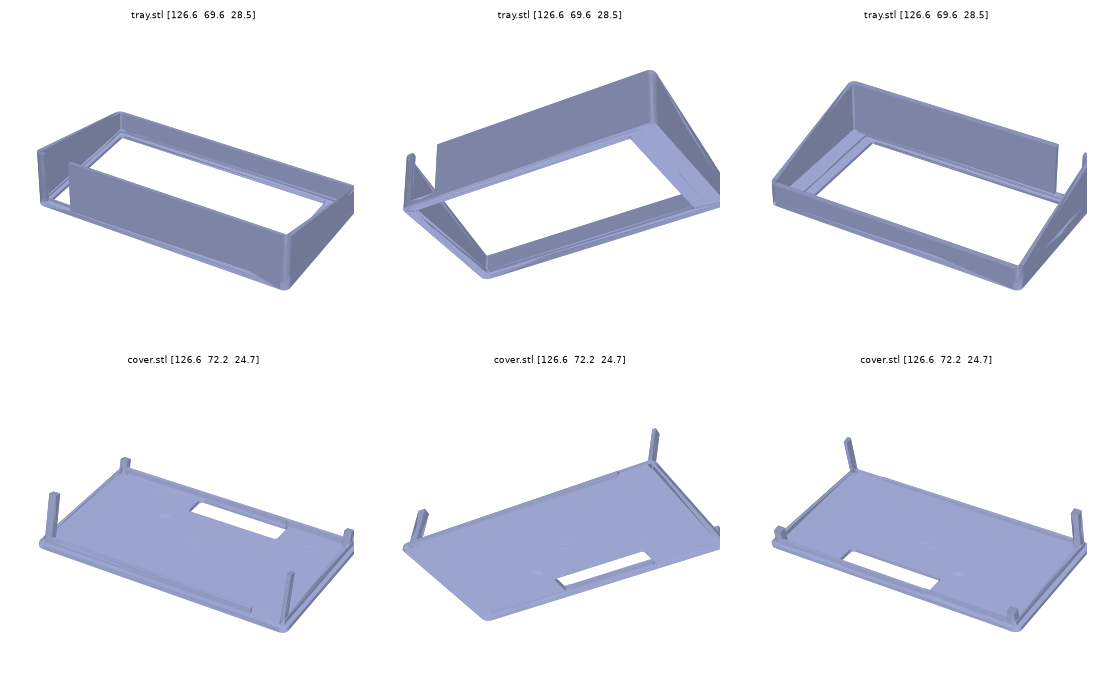
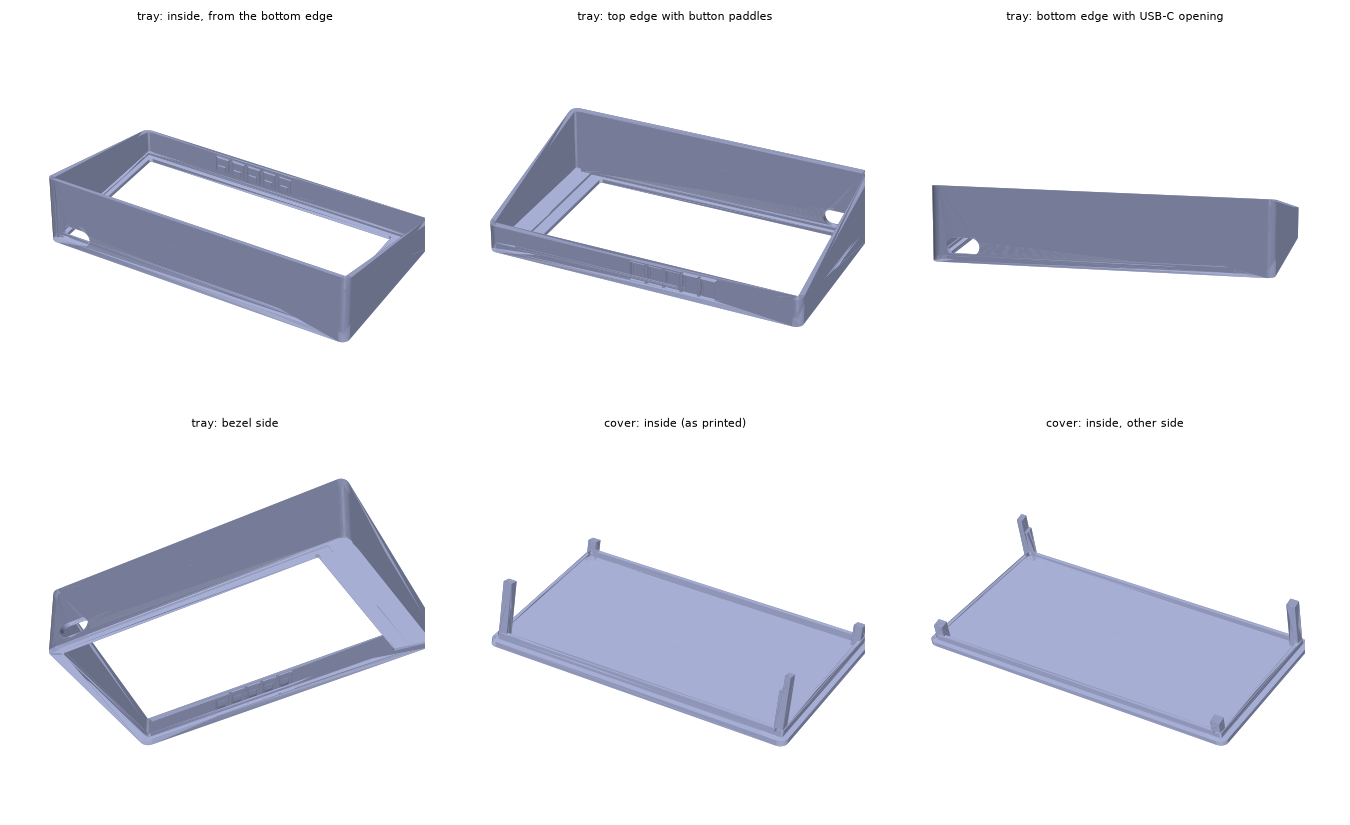
Rework case: edge button paddles and closed USB-C opening
Borrow details from 51m0 Lab's slab case for the same board
(makerworld.com/en/models/615564), keeping the wedge back that the
18650 needs:

- five flexing paddles in the top wall press the side-facing buttons,
  replacing the slot in the back cover
- closed rounded USB-C opening in the bottom wall instead of a notch
- USB and button positions rescaled from that model's cutting-mat photo

Still a draft: dimensions are estimates and nothing has been printed.

diff --git a/case/case.py b/case/case.py
@@ -9,6 +9,11 @@ Shape: a wedge. The board drops face-down into the tray (the bezel). The back is
 top edge, where the buttons are, and deep at the bottom edge, where the 18650 sits, so the
 case stands on its bottom edge and the cover is a flat plate that prints without supports.
 
+Details borrowed from 51m0 Lab's slab case for the same board (makerworld.com/en/models/615564,
+which only fits a flat LiPo): five flexing paddles in the top edge that press the side-facing
+buttons, a closed USB-C opening in the bottom edge, and a back that locates on corner posts.
+Positions along the edges were scaled from that model's photo of the board on a cutting mat.
+
 All coordinates are in millimetres, looking at the screen: x to the right, y up, origin at
 the bottom-left corner of the circuit board, z from the front of the bezel towards the back.
 
@@ -40,11 +45,17 @@ CELL_Y = 12.0          # measure: 18650 centre line, up from the board's bottom 
 CELL_H = 10.5          # measure: 18650 centre line, above the back of the board
 CELL_R = 9.3           # 18650 radius
 
-USB_X = 9.0            # measure: USB-C centre, from the board's left edge (screen side view)
-USB_W = 13.0           # notch width: fits a 12 mm plug shell
+USB_X = 9.7            # measure: USB-C centre, from the board's left edge (screen side view)
+USB_Z = 1.7            # measure: USB-C centre, above the back of the board
+USB_W, USB_H = 12.6, 6.8   # opening: clears a slim cable's plug shell
 
-BTN_X0, BTN_X1 = 0.26 * PCB_W, 0.64 * PCB_W   # measure: span of the five buttons
-BTN_DEPTH = 13.0       # slot height, down from the top edge of the board
+# Five side-facing buttons on the top edge; centres from the board's left edge (screen side view).
+BTN_X = [34.0, 41.0, 48.0, 55.0, 62.0]   # measure
+BTN_Z = 1.3            # measure: button plunger centre, above the back of the board
+PADDLE_W = 5.0         # width of each flexing paddle
+PADDLE_T = 1.0         # paddle thickness (the wall is thinned from outside)
+SLIT = 0.5             # gap around each paddle
+NUB = 0.8              # how far the paddle's bump reaches in past the wall
 
 # ------------------------------------------------------------------ case ----
 WALL = 2.0             # side walls
@@ -115,9 +126,39 @@ def slab(z_below, z_above):
     return yz_prism(pts, X0 - e, X1 + e)
 
 
-def usb_notch(grow=0.0):
-    return box(USB_X - USB_W / 2 - grow, Y0 - 1, USB_X + USB_W / 2 + grow, FIT + 3 + grow,
-               Z_BACK - 1.8, ZB + 20)
+def usb_hole():
+    """Rounded opening through the bottom wall, centred on the connector."""
+    zc = Z_BACK + USB_Z
+    cs = rect(USB_X - USB_W / 2, zc - USB_H / 2, USB_X + USB_W / 2, zc + USB_H / 2, USB_H / 2 - 0.01)
+    # extrude space (a, b, c) -> model (x = a, y = -c, z = b), so it runs through the wall
+    m = np.array([[1, 0, 0, 0], [0, 0, -1, 0.5], [0, 1, 0, 0]], dtype=float)
+    return Manifold.extrude(cs, WALL + FIT + 1.0).transform(m)
+
+
+def usb_relief():
+    """Space the cover's lip and post must leave around the connector and plug."""
+    return box(USB_X - USB_W / 2 - 1, -FIT - 0.1, USB_X + USB_W / 2 + 1, 6.0,
+               Z_BACK - 1, Z_BACK + USB_Z + USB_H / 2 + 1.5)
+
+
+def paddles():
+    """Returns (cut, add): slits and thinning to cut from the top wall, bumps to add back."""
+    y_in, y_out = PCB_H + FIT, PCB_H + FIT + WALL
+    z_hinge = Z_PCB                                # fixed end, by the bezel
+    z_free = min(Z_BACK + BTN_Z + 4.5, plane_z(Y1) - 1.4)   # free end, towards the back
+    zc = Z_BACK + BTN_Z
+    cut, add = Manifold(), Manifold()
+    for bx in BTN_X:
+        a, b = bx - PADDLE_W / 2, bx + PADDLE_W / 2
+        for sx in (a - SLIT, b):                                   # side slits
+            cut += box(sx, y_in - 0.1, sx + SLIT, y_out + 0.1, z_hinge, z_free + SLIT)
+        cut += box(a - SLIT, y_in - 0.1, b + SLIT, y_out + 0.1, z_free, z_free + SLIT)   # free end
+        cut += box(a - SLIT, y_in + PADDLE_T, b + SLIT, y_out + 0.1, z_hinge, z_free + SLIT)  # thin it
+        # Bump with a 45-degree underside so it prints without support (bezel is on the bed).
+        prof = [(y_in + 0.05, zc - 1.2 - NUB), (y_in - NUB, zc - 1.2), (y_in - NUB, zc + 1.2),
+                (y_in + 0.05, zc + 1.2)]
+        add += yz_prism(prof[::-1], bx - 1.6, bx + 1.6)
+    return cut, add
 
 
 def tray():
@@ -128,7 +169,8 @@ def tray():
                 PANEL_Y0 + PANEL_H + FIT, Z_PANEL, Z_PCB + 0.01)
     window = box(PANEL_X0 + WIN_LEFT, PANEL_Y0 + WIN_MARGIN_Y, PANEL_X0 + WIN_RIGHT,
                  PANEL_Y0 + PANEL_H - WIN_MARGIN_Y, -1, Z_PANEL + 0.01, 1.0)
-    return body - cavity - panel - window - usb_notch() - slab(0, 100)
+    cut, bumps = paddles()
+    return body - cavity - panel - window - usb_hole() - cut + bumps - slab(0, 100)
 
 
 def cover():
@@ -136,16 +178,15 @@ def cover():
     g = FIT - LIP_FIT   # lip sits just inside the tray walls
     ring = box(-g, -g, PCB_W + g, PCB_H + g, 0, ZB + 20, 0.6) - \
         box(-g + LIP_T, -g + LIP_T, PCB_W + g - LIP_T, PCB_H + g - LIP_T, -1, ZB + 21)
-    lip = (ring ^ slab(-LIP / math.cos(THETA), 0.01)) - usb_notch(0.6)
+    lip = (ring ^ slab(-LIP / math.cos(THETA), 0.01)) - usb_relief()
     part = plate + lip
     if POSTS:
         for px in (0.2, PCB_W - POST - 0.2):
             for py in (0.2, PCB_H - POST - 0.2):
                 post = box(px, py, px + POST, py + POST, Z_BACK + 0.2, ZB + 20)
                 part += post ^ slab(-100, 0.01)
-        part -= usb_notch(0.6) ^ slab(-100, -0.01)
-    buttons = box(BTN_X0, PCB_H - BTN_DEPTH, BTN_X1, PCB_H - 1.0, 0, ZB + 30, 2.0)
-    return part - buttons
+        part -= usb_relief()
+    return part
 
 
 def to_print_orientation(c):
